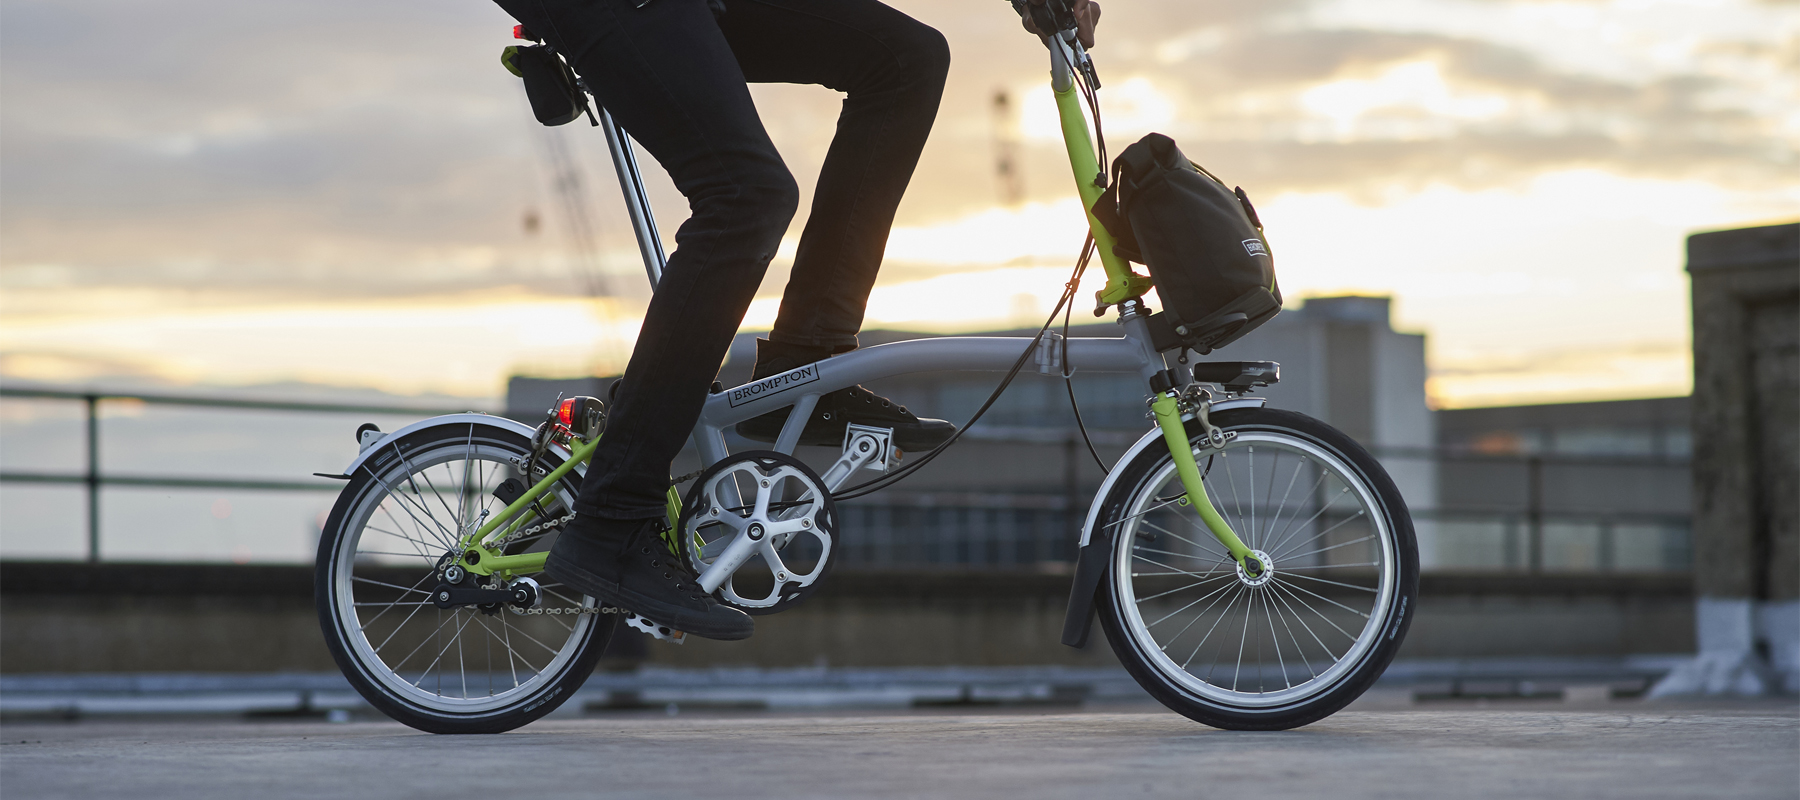
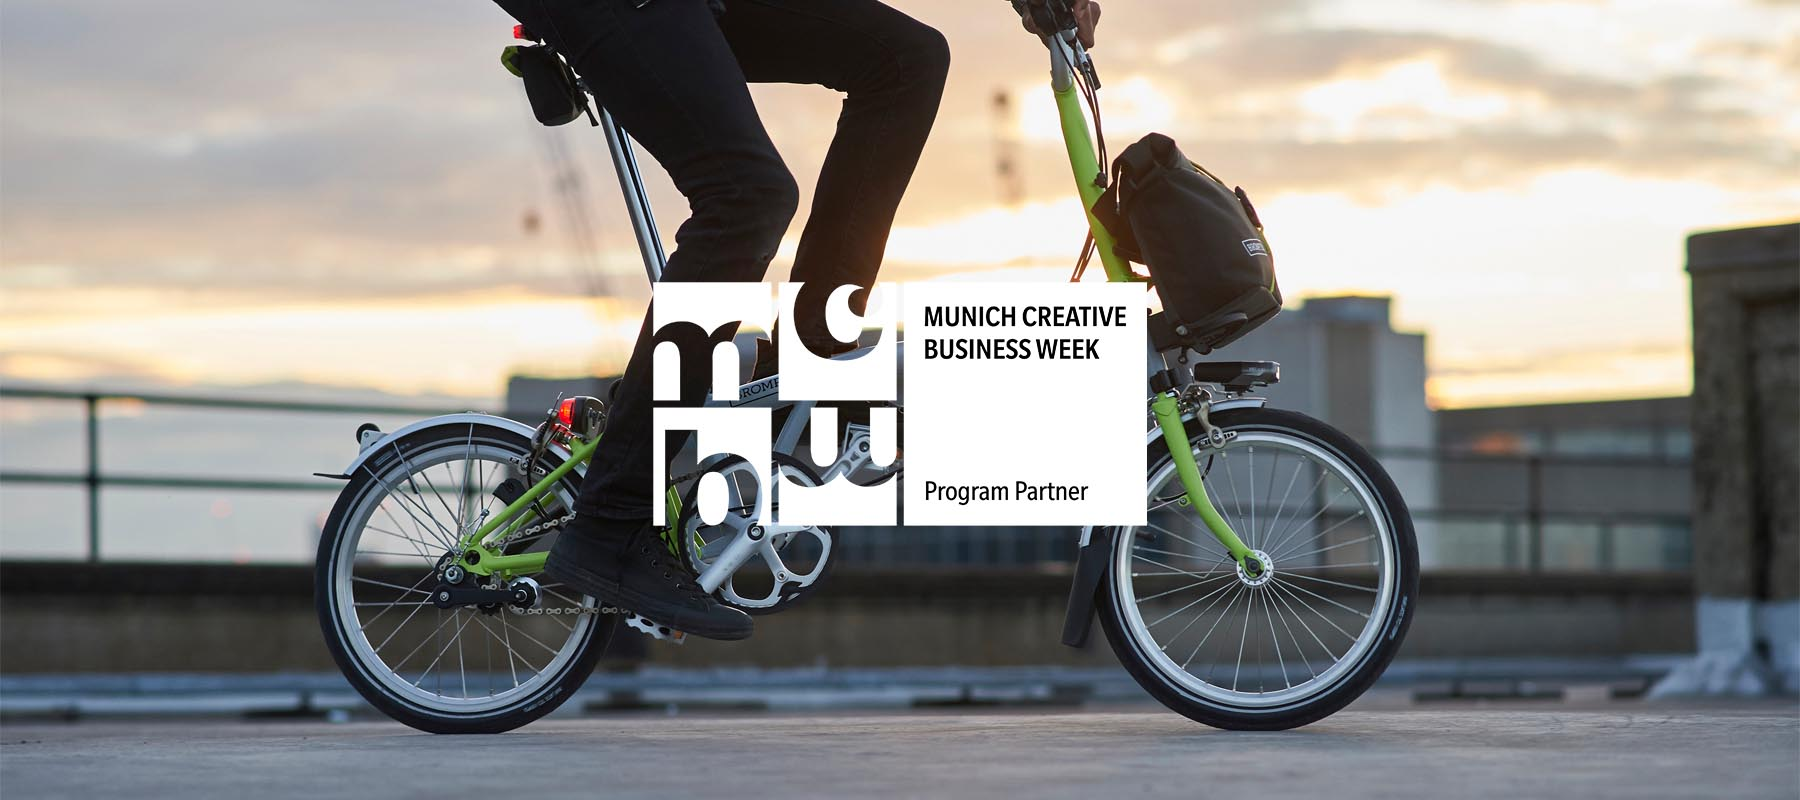
minor mcbw template optimizations

Changed region(s): [[0.3422, 0.3438, 0.6533, 0.6562]]

diff --git a/listnride/app/modules/events/mcbw/mcbw.template.html b/listnride/app/modules/events/mcbw/mcbw.template.html
@@ -1,7 +1,9 @@
  <md-content class="single-column"> 
   <div id="hero-shot" class="lnr-preload-bg" style="background-image: url('app/assets/ui_images/events/mcbw.jpg')" layout="row" layout-align="center center">
     <div class="lnr-page-title md-color-white" flex layout="column" layout-align="center center">
-      <h1 class="md-display-1">{{ 'events.mcbw.title' | translate }}</h1>
+      <!-- <h1 class="md-display-1">{{ 'events.mcbw.title' | translate }}</h1> -->
+      <img hide show-gt-xs ng-src="app/assets/ui_images/events/mcbw-logo.png" style="width: 40%"></img>
+      <img hide show-xs ng-src="app/assets/ui_images/events/mcbw-logo.png" style="width: 60%"></img>
     </div>
   </div>
 
